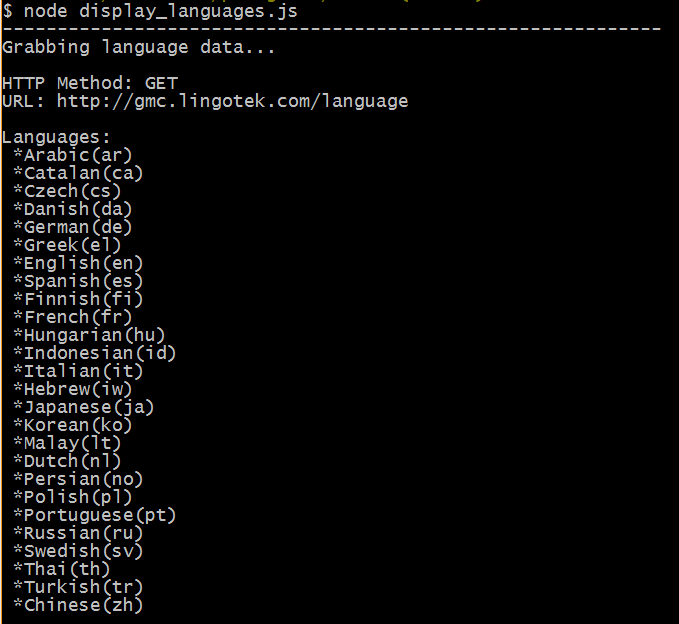
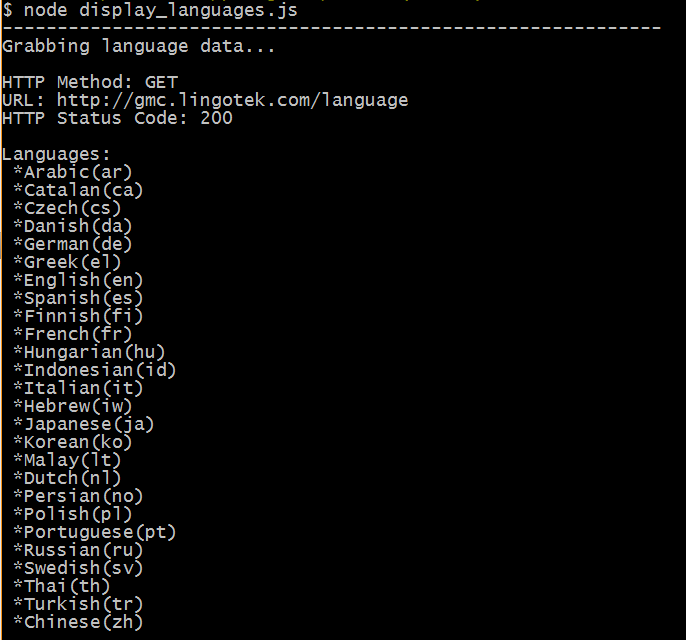
Updated task 2 output image to show status code
Added some comments

Changed region(s): [[0.0, 0.0, 0.9588, 1.0]]

diff --git a/task2/display_languages.js b/task2/display_languages.js
@@ -19,6 +19,8 @@ var options = {
 };
 
 
+// req is an instance of the http.ClientRequest class
+// See https://nodejs.org/api/http.html#http_class_http_clientrequest
 var req = http.request(options, (res) => {
   // console.log(`STATUS: ${res.statusCode}`);
   // console.log(`HEADERS: ${JSON.stringify(res.headers)}`);
